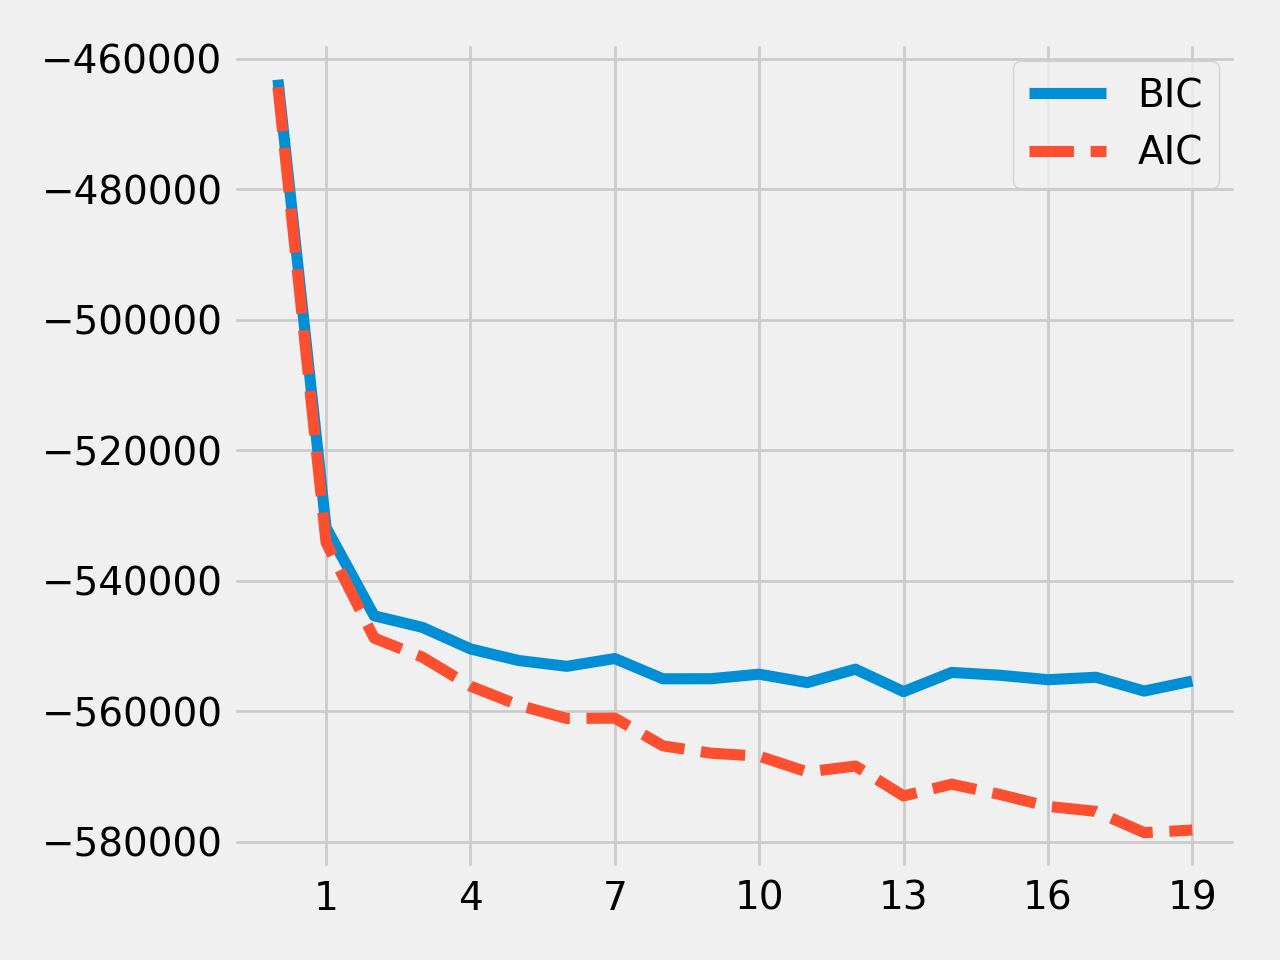
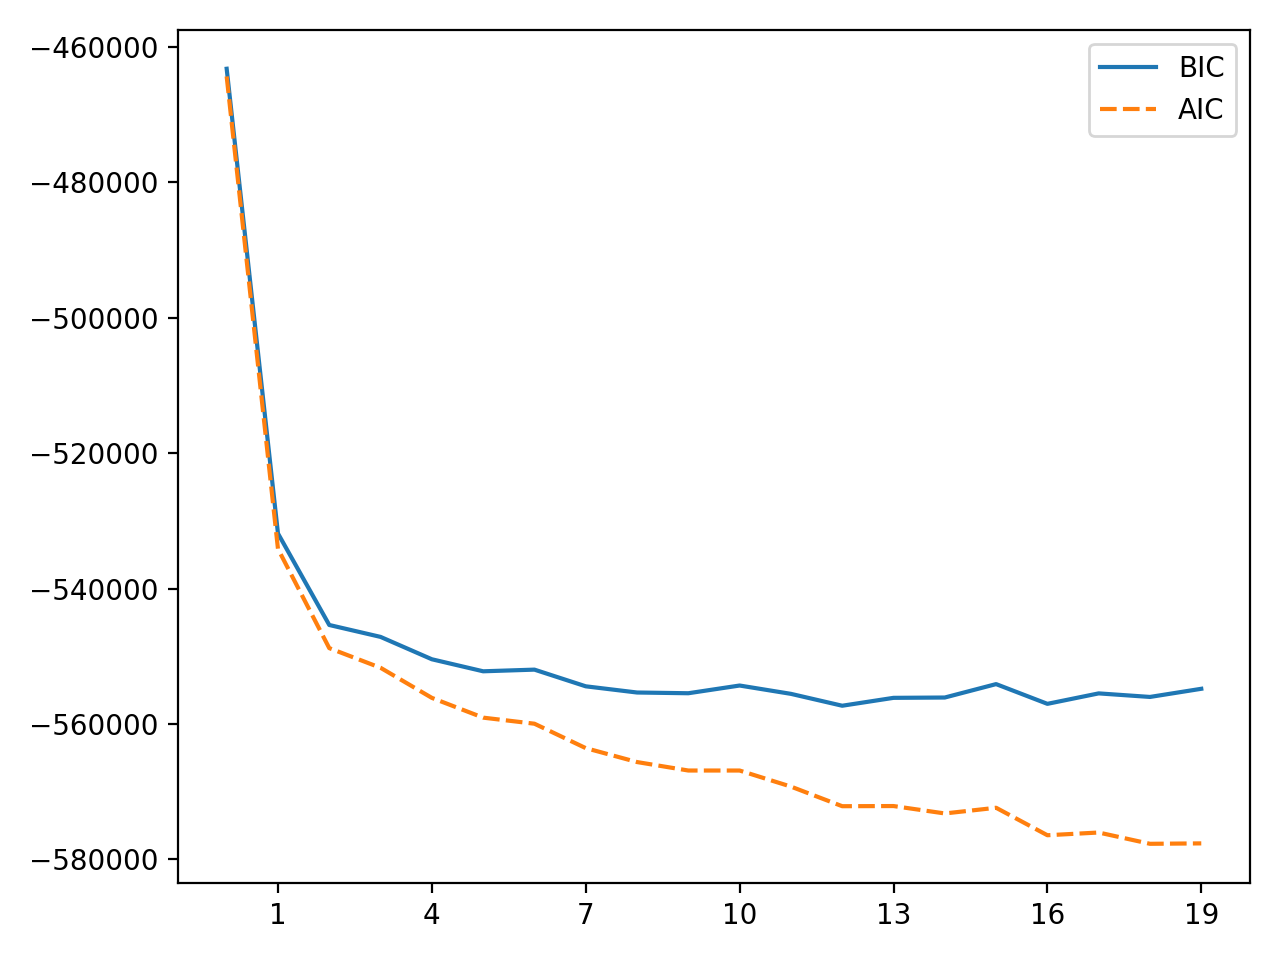
ANFIS results fix

diff --git a/clustering_models/em.py b/clustering_models/em.py
@@ -3,9 +3,6 @@ import numpy as np
 with warnings.catch_warnings():
     warnings.simplefilter("ignore")
 from sklearn.mixture import GaussianMixture
-import matplotlib.pyplot as plt
-from matplotlib import style
-style.use('fivethirtyeight')
 import os
 import seaborn as sns
 from matplotlib import pyplot as plt
